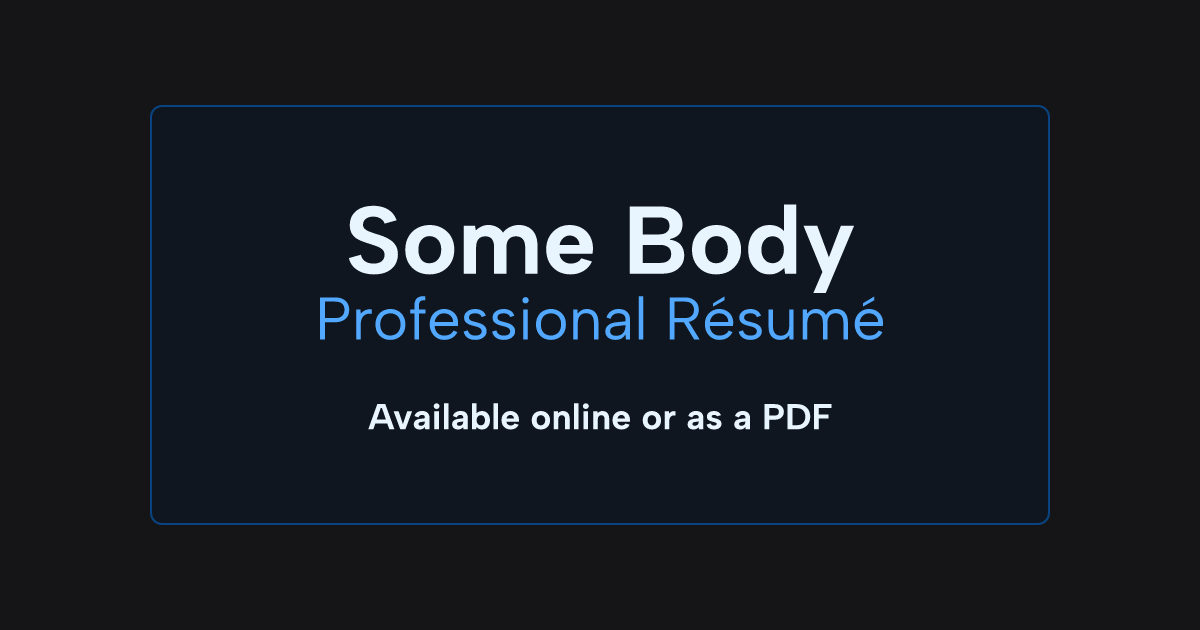
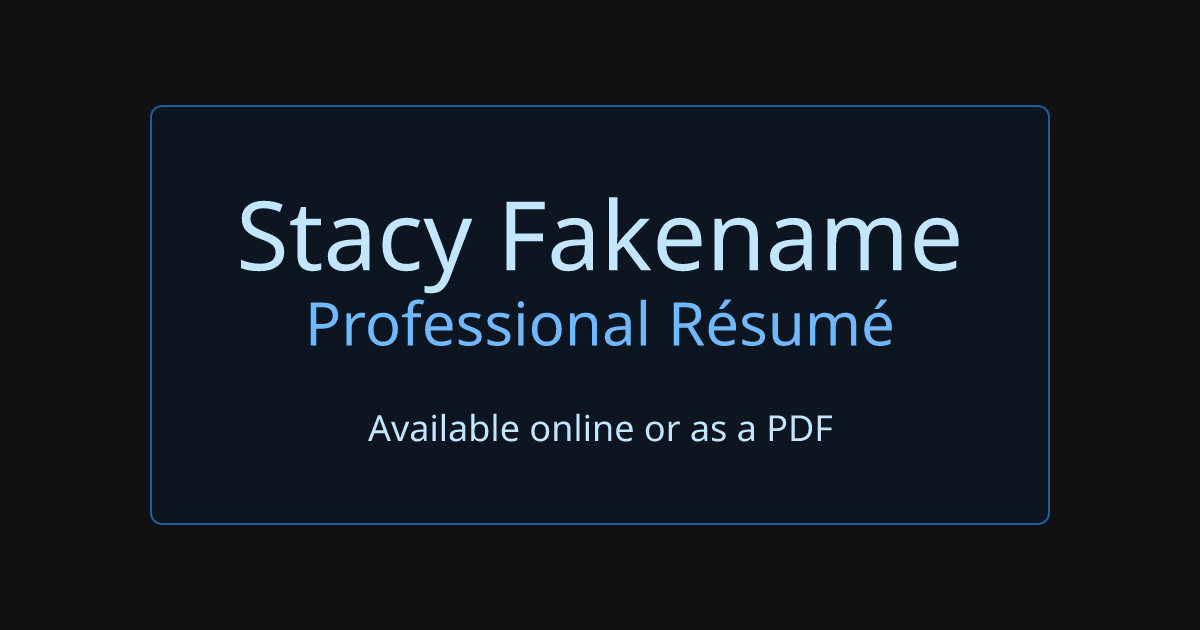
[4.3.2] Default neutral color (#416)
* Update documentation and change default neutral color to slate.

* Change back OG default color.

diff --git a/edit-me/config/resumeConfig.ts b/edit-me/config/resumeConfig.ts
@@ -8,7 +8,7 @@ import {
 
 const config: ResumeConfig = {
   accentColor: AccentColors.Blue,
-  neutralColor: NeutralColors.Mauve,
+  neutralColor: NeutralColors.Slate,
   appTheme: ThemeSetting.System,
   imageTheme: Theme.Light,
   pdfTheme: Theme.Light,

diff --git a/README.md b/README.md
@@ -88,7 +88,7 @@ Your accent, neutral, and color scheme preferences also apply to the generated O
 
 | Light Mode                                                                     | Dark Mode                                                                       |
 | ------------------------------------------------------------------------------ | ------------------------------------------------------------------------------- |
-| **BLUE/MAUVE** ![Blue accent light mode OG image](/docs/og/Blue-LightMode.png) | **BLUE/MAUVE** ![Blue accent dark mode share image](/docs/og/Blue-DarkMode.png) |
+| **BLUE/SLATE** ![Blue accent light mode OG image](/docs/og/Blue-LightMode.png) | **BLUE/SLATE** ![Blue accent dark mode share image](/docs/og/Blue-DarkMode.png) |
 
 ### Set Up Your CMS
 

diff --git a/CHANGELOG.md b/CHANGELOG.md
@@ -5,6 +5,13 @@ All notable changes to this project will be documented in this file.
 The format is based on [Keep a Changelog](https://keepachangelog.com/en/1.0.0/),
 and this project adheres to [Semantic Versioning](https://semver.org/spec/v2.0.0.html).
 
+## [4.3.2] - 2023-11-16
+
+### Changed
+
+- Set `slate` as the default neutral color
+- Updated OG image screenshots for the documentation
+
 ## [4.3.1] - 2023-11-14
 
 ### Changed
